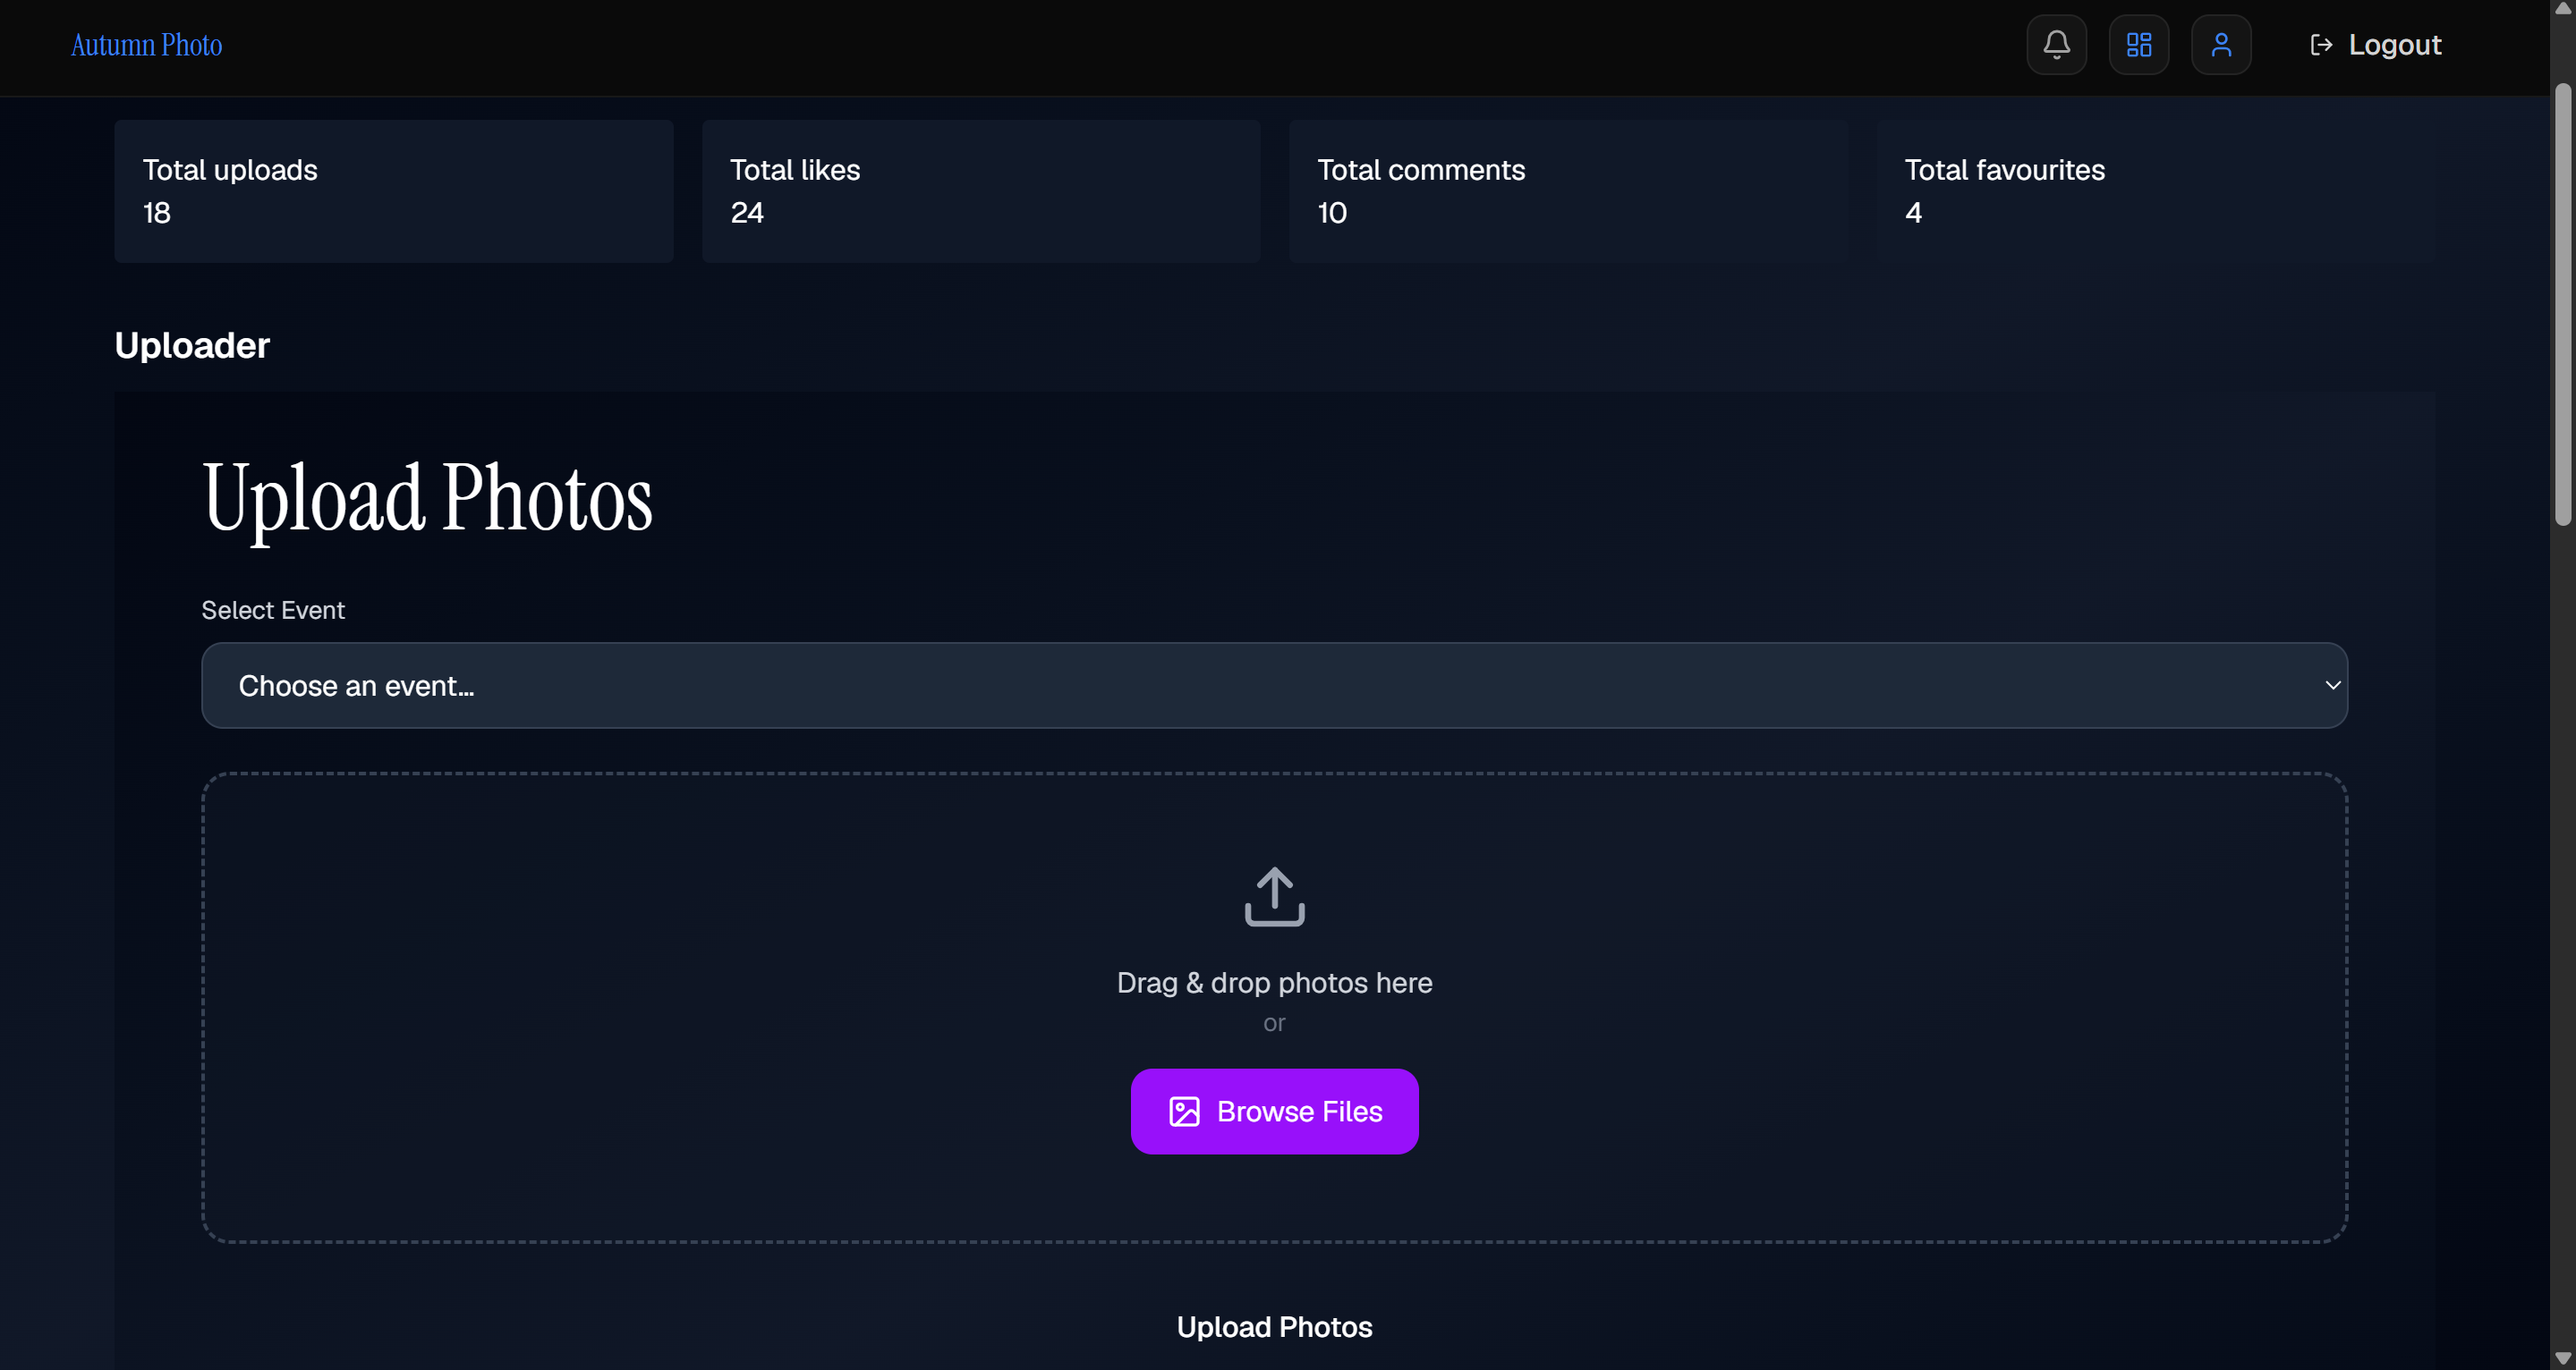
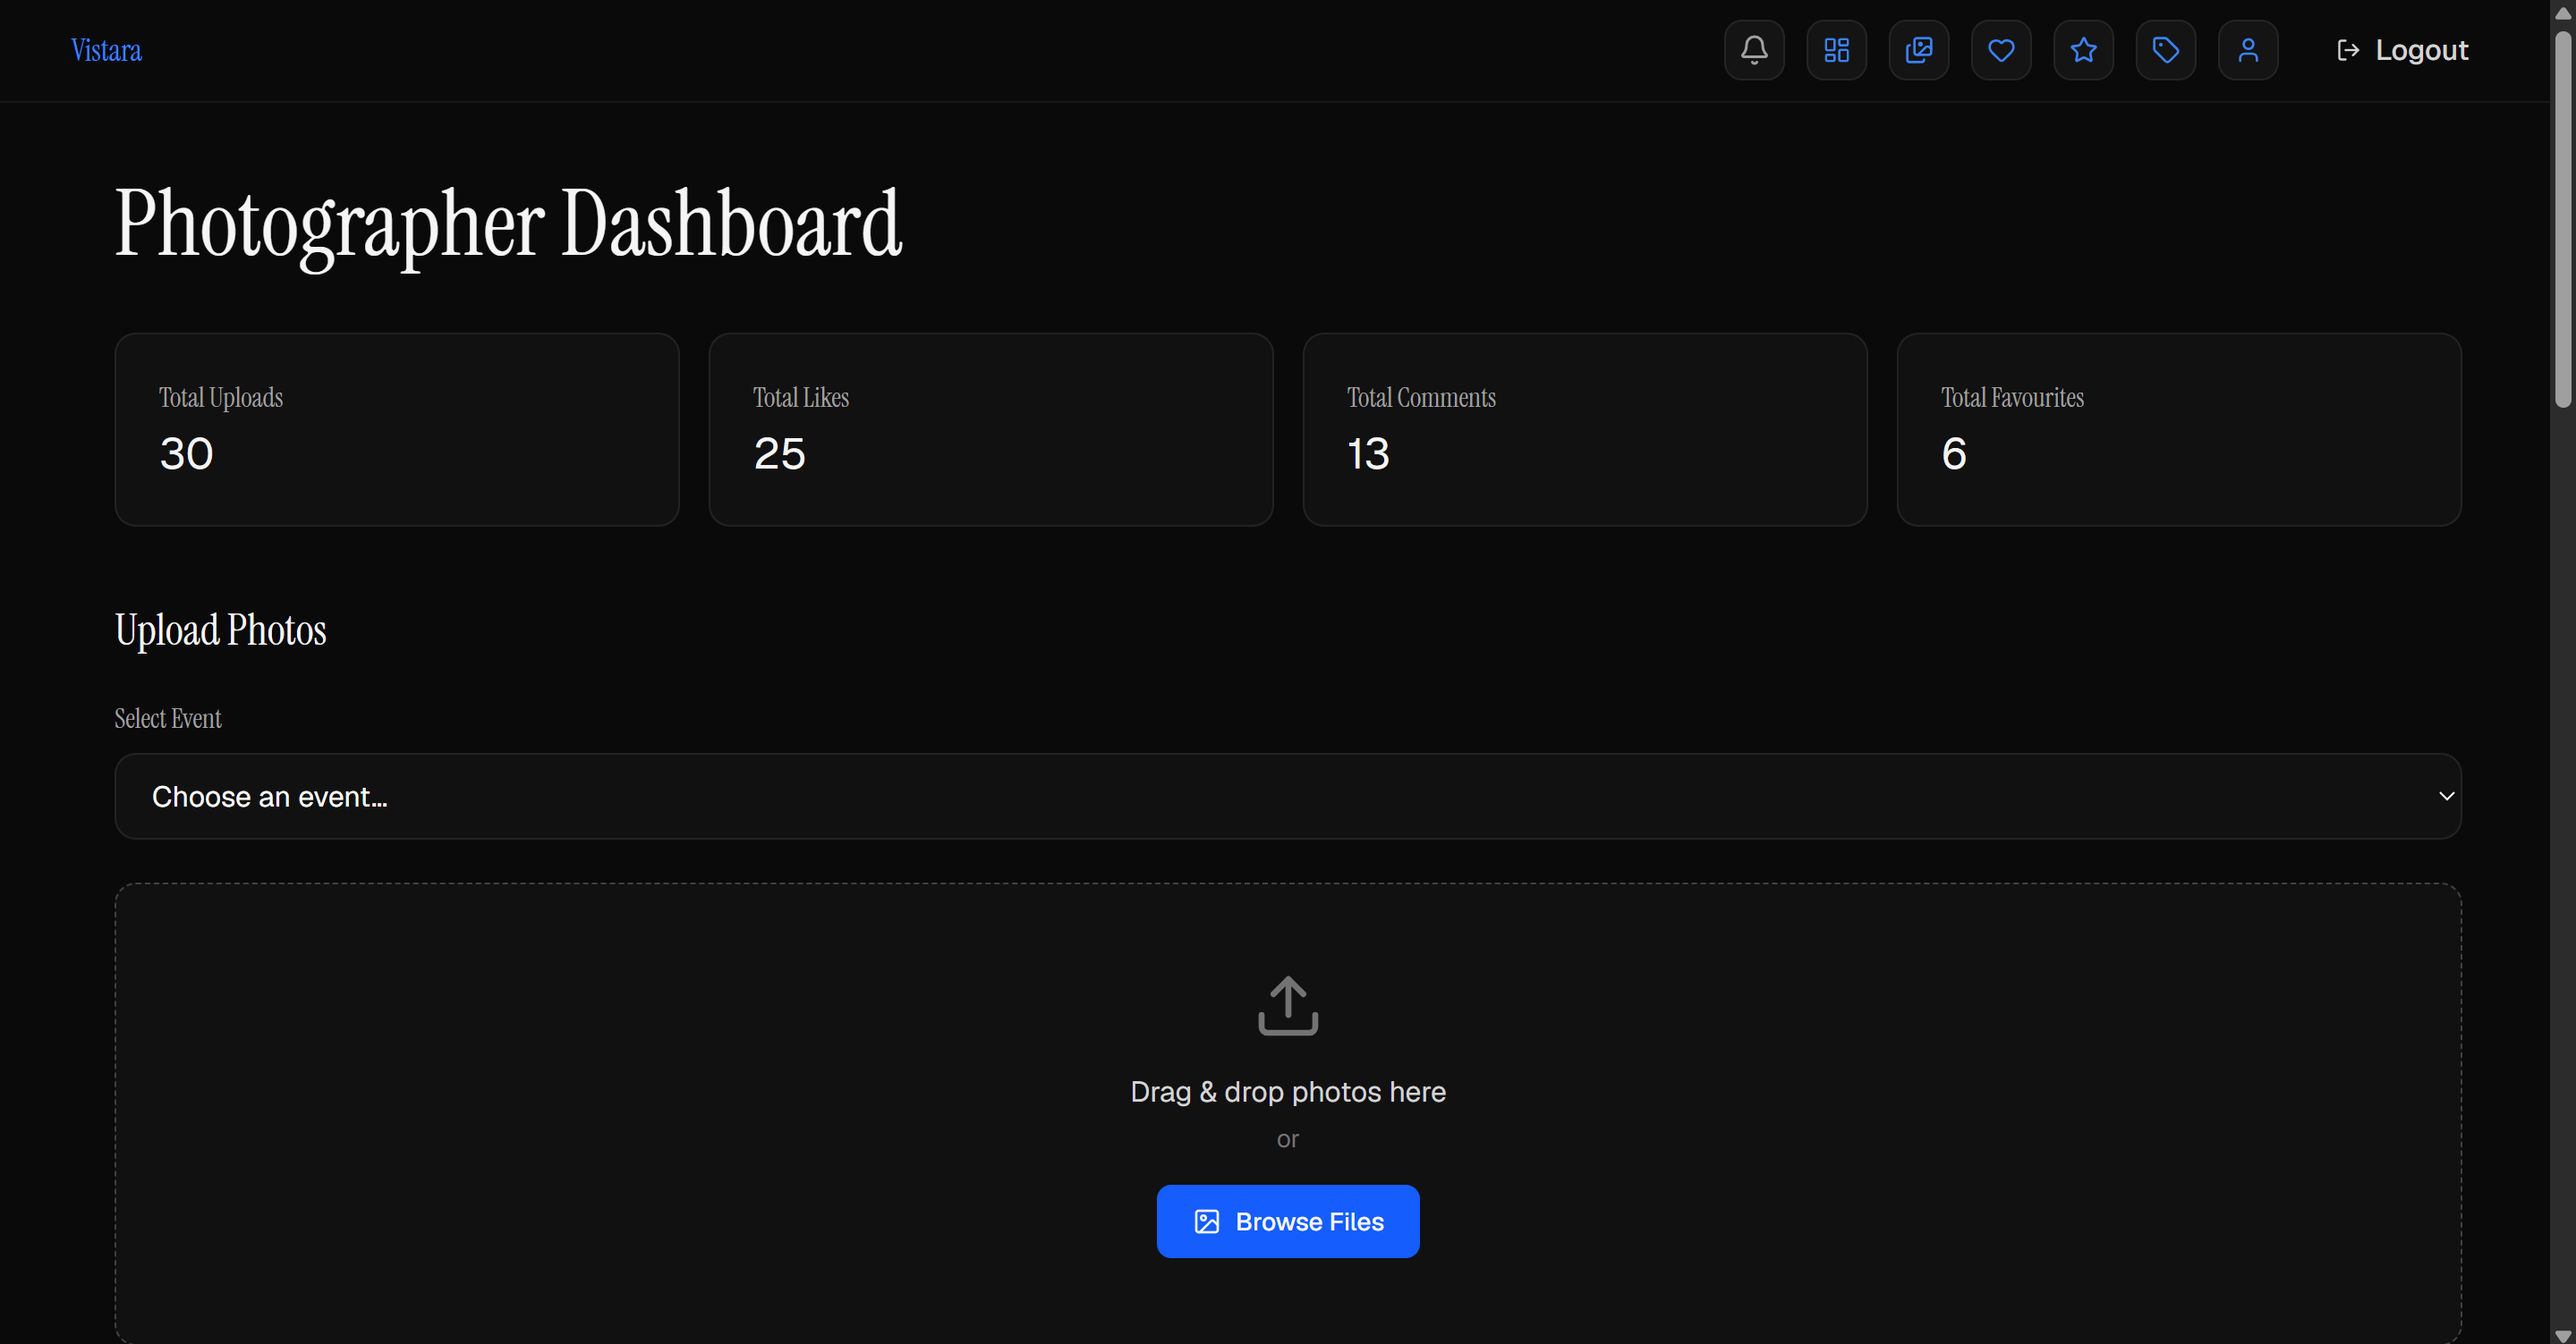
docs: update README with new screenshots for collections, gallery, and uploads

diff --git a/README.md b/README.md
@@ -133,11 +133,35 @@ Technologically, the platform bridges a robust Python backend (Django, DRF, Cele
 
 > The user's personal hub. Here, users can manage their account details, change their profile picture, and view their activity history.
 
-#### Step 15 — User Collections
+#### Step 15 — Favourite Photos
 
-![Step 15 - User Collections](docs/screenshots/favourites,tagged%20in,liked.png)
+![Step 15 - Favourite Photos](docs/screenshots/favourite_view.png)
 
-> A personalized gallery space where users can effortlessly access their favourite photos, images they have been tagged in, and photos they have liked across all events.
+> A dedicated collection where users can effortlessly access their favourite photos.
+
+#### Step 16 — Liked Photos
+
+![Step 16 - Liked Photos](docs/screenshots/liked_photos.png)
+
+> Easily view and manage all the photos you have liked across different events.
+
+#### Step 17 — Tagged Photos
+
+![Step 17 - Tagged Photos](docs/screenshots/tagged_view.png)
+
+> A personalized gallery showing all photos where you have been automatically or manually tagged.
+
+#### Step 18 — Gallery View
+
+![Step 18 - Gallery View](docs/screenshots/gallery_view.png)
+
+> An immersive viewing mode for browsing large collections of event photos.
+
+#### Step 19 — Photographer Uploads
+
+![Step 19 - Photographer Uploads](docs/screenshots/photographer_uploads.png)
+
+> A dedicated interface for photographers to bulk-upload their high-resolution images efficiently.
 
 > 📸 To add screenshots: save images to `docs/screenshots/` using the filenames shown above, then push to the repo. They will render automatically in this README.
 
